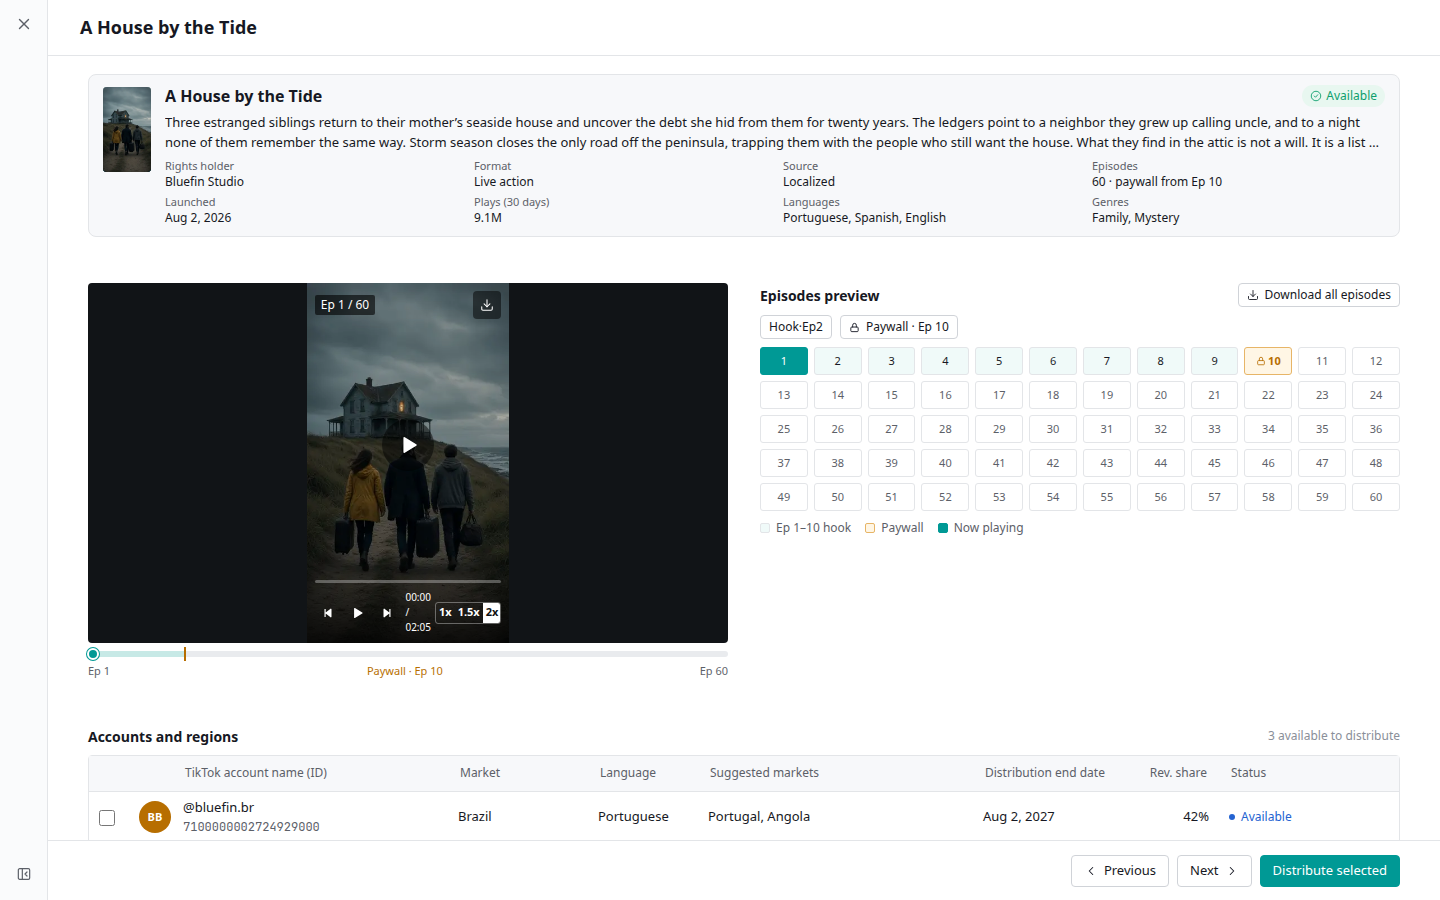
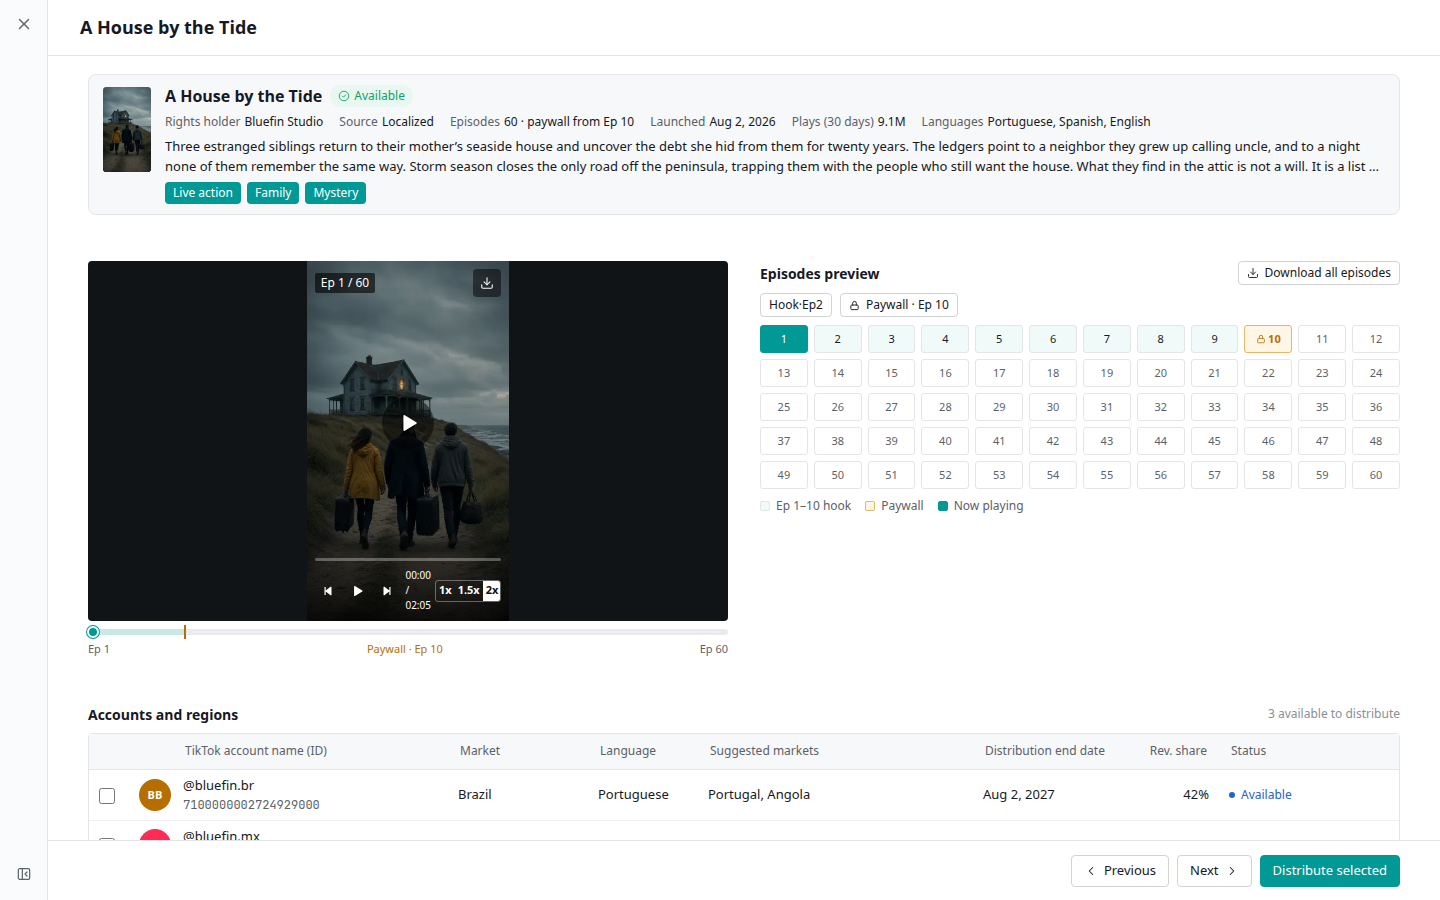
Sync prototype: denser drama header card layout
Available sits immediately after the title. Meta is a wrapping Label value line above the synopsis. Genre and format are solid tags below it.

diff --git a/index.html b/index.html
@@ -369,13 +369,17 @@ button.kpi.on{box-shadow:inset 0 -2px 0 var(--primary)}
 .det-syn{margin:0;font-size:13px;line-height:1.65;color:var(--text)}
 .drawer.drama.fs .det{grid-template-columns:minmax(0,1fr) minmax(0,1fr);grid-template-areas:"info info" "player eps" "cols cols";gap:22px 32px}
 .drawer.drama.fs .det-l,.drawer.drama.fs .det-eps{margin-top:24px;margin-bottom:24px}
-.drawer.drama.fs .det-info{display:grid;grid-template-columns:48px minmax(0,1fr);grid-template-areas:"cover head" "cover syn" "cover facts";column-gap:14px;row-gap:6px;align-items:start;padding:10px 14px;border:1px solid var(--border);border-radius:8px;background:var(--th)}
+.drawer.drama.fs .det-info{display:grid;grid-template-columns:48px minmax(0,1fr);grid-template-areas:"cover head" "cover facts" "cover syn" "cover tags";column-gap:14px;row-gap:6px;align-items:start;padding:10px 14px;border:1px solid var(--border);border-radius:8px;background:var(--th)}
 .det-facts{display:contents}
 .drawer.drama.fs .det-facts{display:block;grid-area:facts;border:0;padding:0;background:transparent}
-.drawer.drama.fs .det-facts .kv{grid-template-columns:repeat(4,minmax(0,1fr));gap:4px 16px}
-.drawer.drama.fs .det-facts .k{font-size:11px;line-height:16px}
-.drawer.drama.fs .det-facts .v{font-size:12px;line-height:16px}
+.drawer.drama.fs .det-facts .kv{display:none}
+.drawer.drama.fs .det-facts-line{display:flex;flex-wrap:wrap;align-items:baseline;gap:2px 16px;font-size:12px;line-height:18px;color:var(--text)}
+.drawer.drama.fs .det-facts-line .k{color:var(--text2);font-weight:500;margin-right:4px}
+.det-facts-line{display:none}
 .drawer.drama.fs .det-syn{grid-area:syn;font-size:13px;line-height:1.5;max-width:none;border:0;padding:0;background:transparent;display:-webkit-box;-webkit-box-orient:vertical;-webkit-line-clamp:2;overflow:hidden}
+.det-hero-tags{display:none}
+.drawer.drama.fs .det-hero-tags{grid-area:tags;display:flex;flex-wrap:wrap;gap:6px}
+.drawer.drama.fs .det-hero-tags .tag{background:var(--primary);color:#fff;height:22px;padding:0 8px;border-radius:4px}
 .drawer.drama.fs .det-l{position:static;width:auto}
 .player-stage{display:contents}
 .drawer.drama.fs .player-stage{display:flex;align-items:center;justify-content:center;width:100%;aspect-ratio:16/9;height:auto;background:#111417;border-radius:4px;overflow:hidden}
@@ -394,8 +398,8 @@ button.kpi.on{box-shadow:inset 0 -2px 0 var(--primary)}
 .det-hero-cover{position:relative;width:54px;flex:none;aspect-ratio:9/16;border-radius:4px;overflow:hidden;background:#1d2329}
 .det-hero-cover .poster,.det-hero-cover img{position:absolute;inset:0;width:100%;height:100%;object-fit:cover;display:block;pointer-events:none}
 .det-hero-copy{flex:1;min-width:0}
-.det-hero-title-row{display:flex;align-items:center;gap:8px;min-width:0}
-.det-hero-title{font-size:16px;font-weight:600;line-height:22px;min-width:0;flex:1}
+.det-hero-title-row{display:flex;align-items:center;gap:8px;min-width:0;justify-content:flex-start}
+.det-hero-title{font-size:16px;font-weight:600;line-height:22px;min-width:0;flex:0 1 auto;max-width:calc(100% - 96px)}
 .det-hero-meta{margin-top:4px;font-size:12px;color:var(--text2);line-height:18px}
 .det-hero-chip{display:inline-flex;align-items:center;gap:4px;height:22px;margin-top:0;padding:0 8px;border-radius:11px;background:var(--ok-bg);color:var(--ok);font-size:12px;font-weight:500;flex:none}
 .det-hero-chip.claimed{background:var(--info-bg);color:var(--info)}
@@ -1373,6 +1377,10 @@ function dramaBody(ctrId){
   const heroChip = availCount
     ? `<span class="det-hero-chip">${ic('check-circle', 12)}Available</span>`
     : `<span class="det-hero-chip claimed">${ic('check-circle', 12)}Claimed</span>`;
+  const langs = Array.from(new Set(cs.map(x => x.lang))).join(', ');
+  const factsLine = [['Rights holder', c.holder],['Source', c.source],['Episodes', N + ' · paywall from Ep ' + pw],['Launched', c.launchL],['Plays (30 days)', c.plays],['Languages', langs]]
+    .map(([k, v]) => `<span class="det-fact"><span class="k">${esc(k)}</span>${esc(v)}</span>`).join('');
+  const heroTags = [c.format].concat(c.genres).map(t => `<span class="tag">${esc(t)}</span>`).join('');
   const body = `
   <div class="det">
     <div class="det-info">
@@ -1394,11 +1402,13 @@ function dramaBody(ctrId){
         <div><div class="k">Episodes</div><div class="v">${N} · paywall from Ep ${pw}</div></div>
         <div><div class="k">Launched</div><div class="v">${c.launchL}</div></div>
         <div><div class="k">Plays (30 days)</div><div class="v">${c.plays}</div></div>
-        <div><div class="k">Languages</div><div class="v">${Array.from(new Set(cs.map(x => x.lang))).join(', ')}</div></div>
+        <div><div class="k">Languages</div><div class="v">${langs}</div></div>
         <div><div class="k">Genres</div><div class="v">${c.genres.join(', ')}</div></div>
       </div>
+      <div class="det-facts-line">${factsLine}</div>
       </div>
       <p class="det-syn">${c.synopsis}</p>
+      <div class="det-hero-tags">${heroTags}</div>
     </div>
     <div class="det-l">
       <div class="player-stage">
